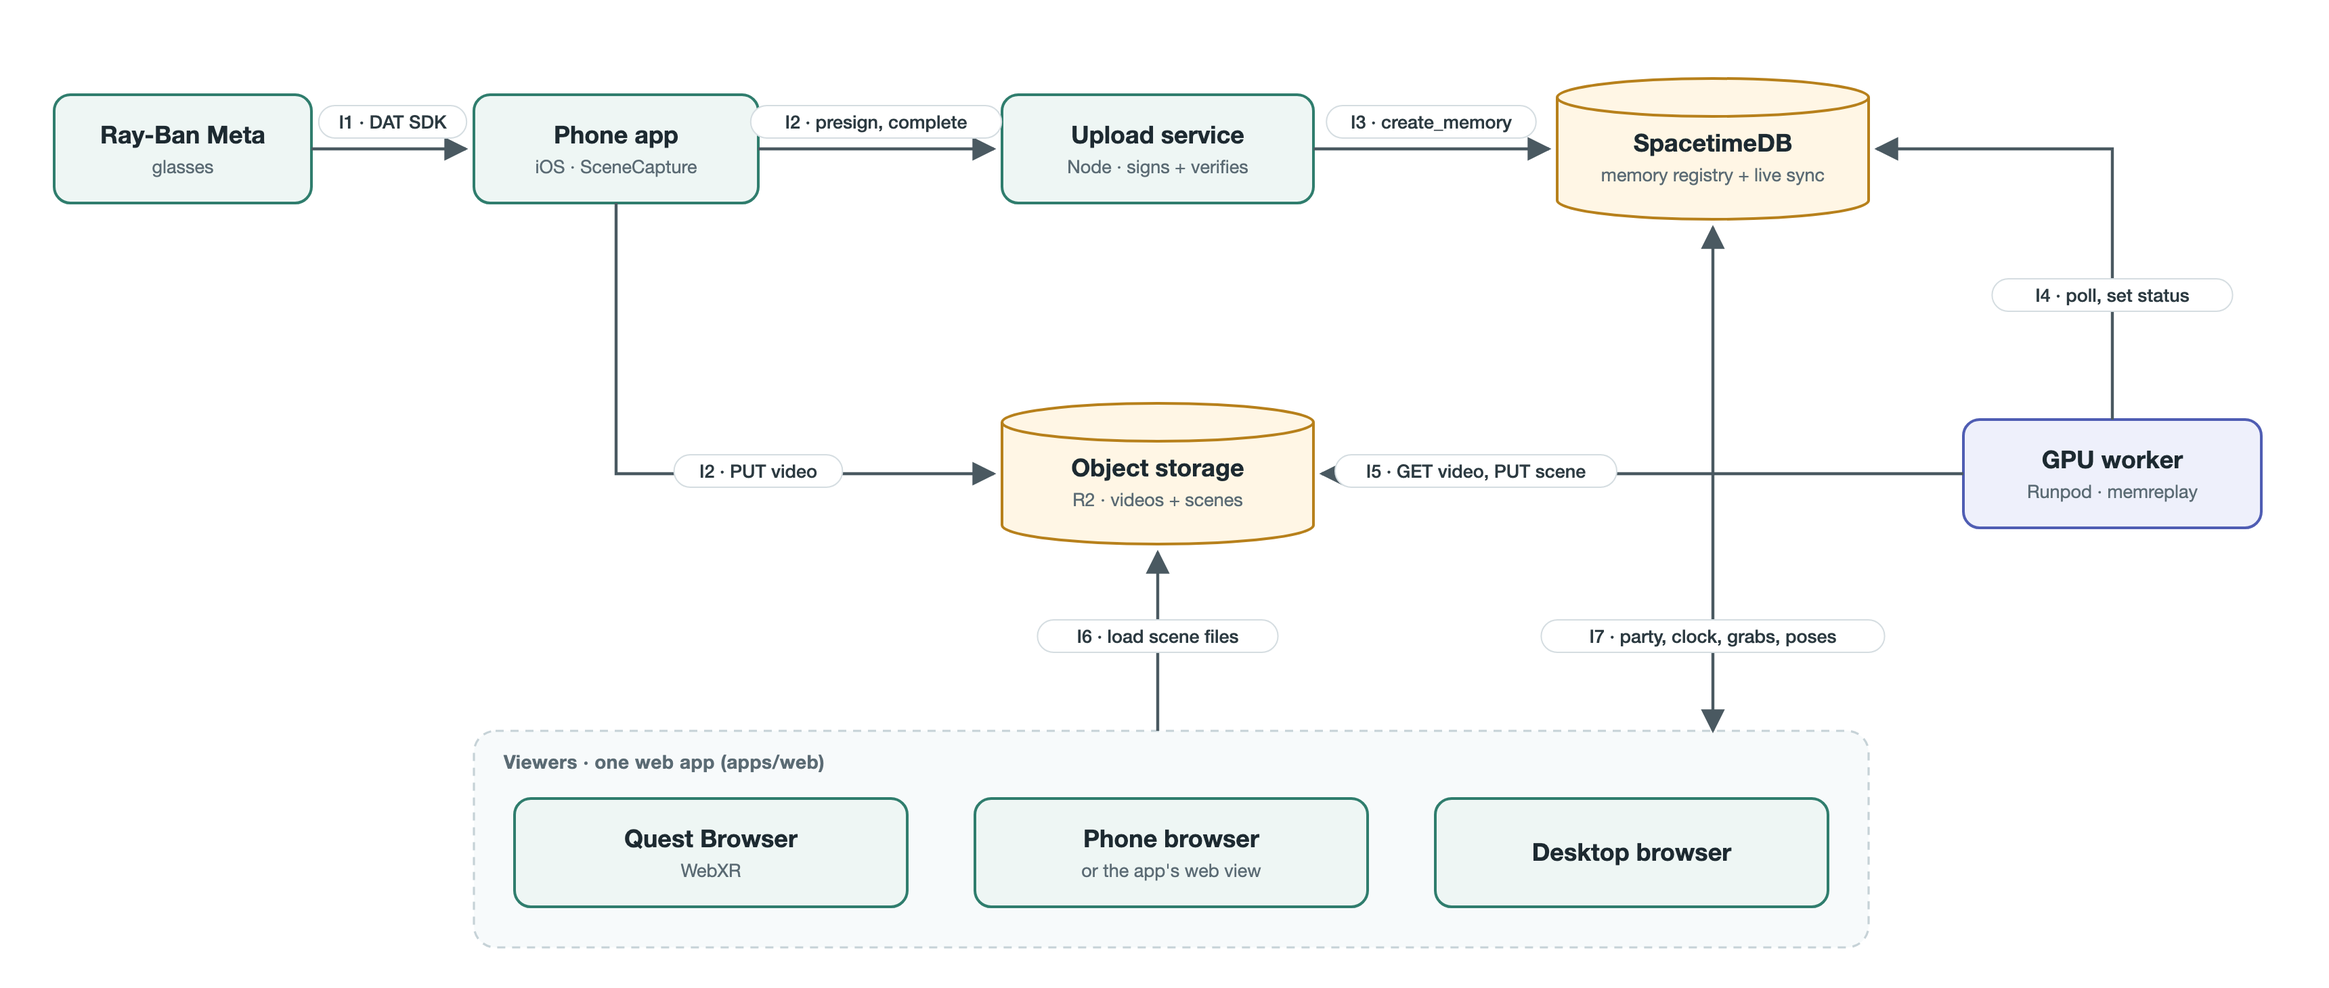
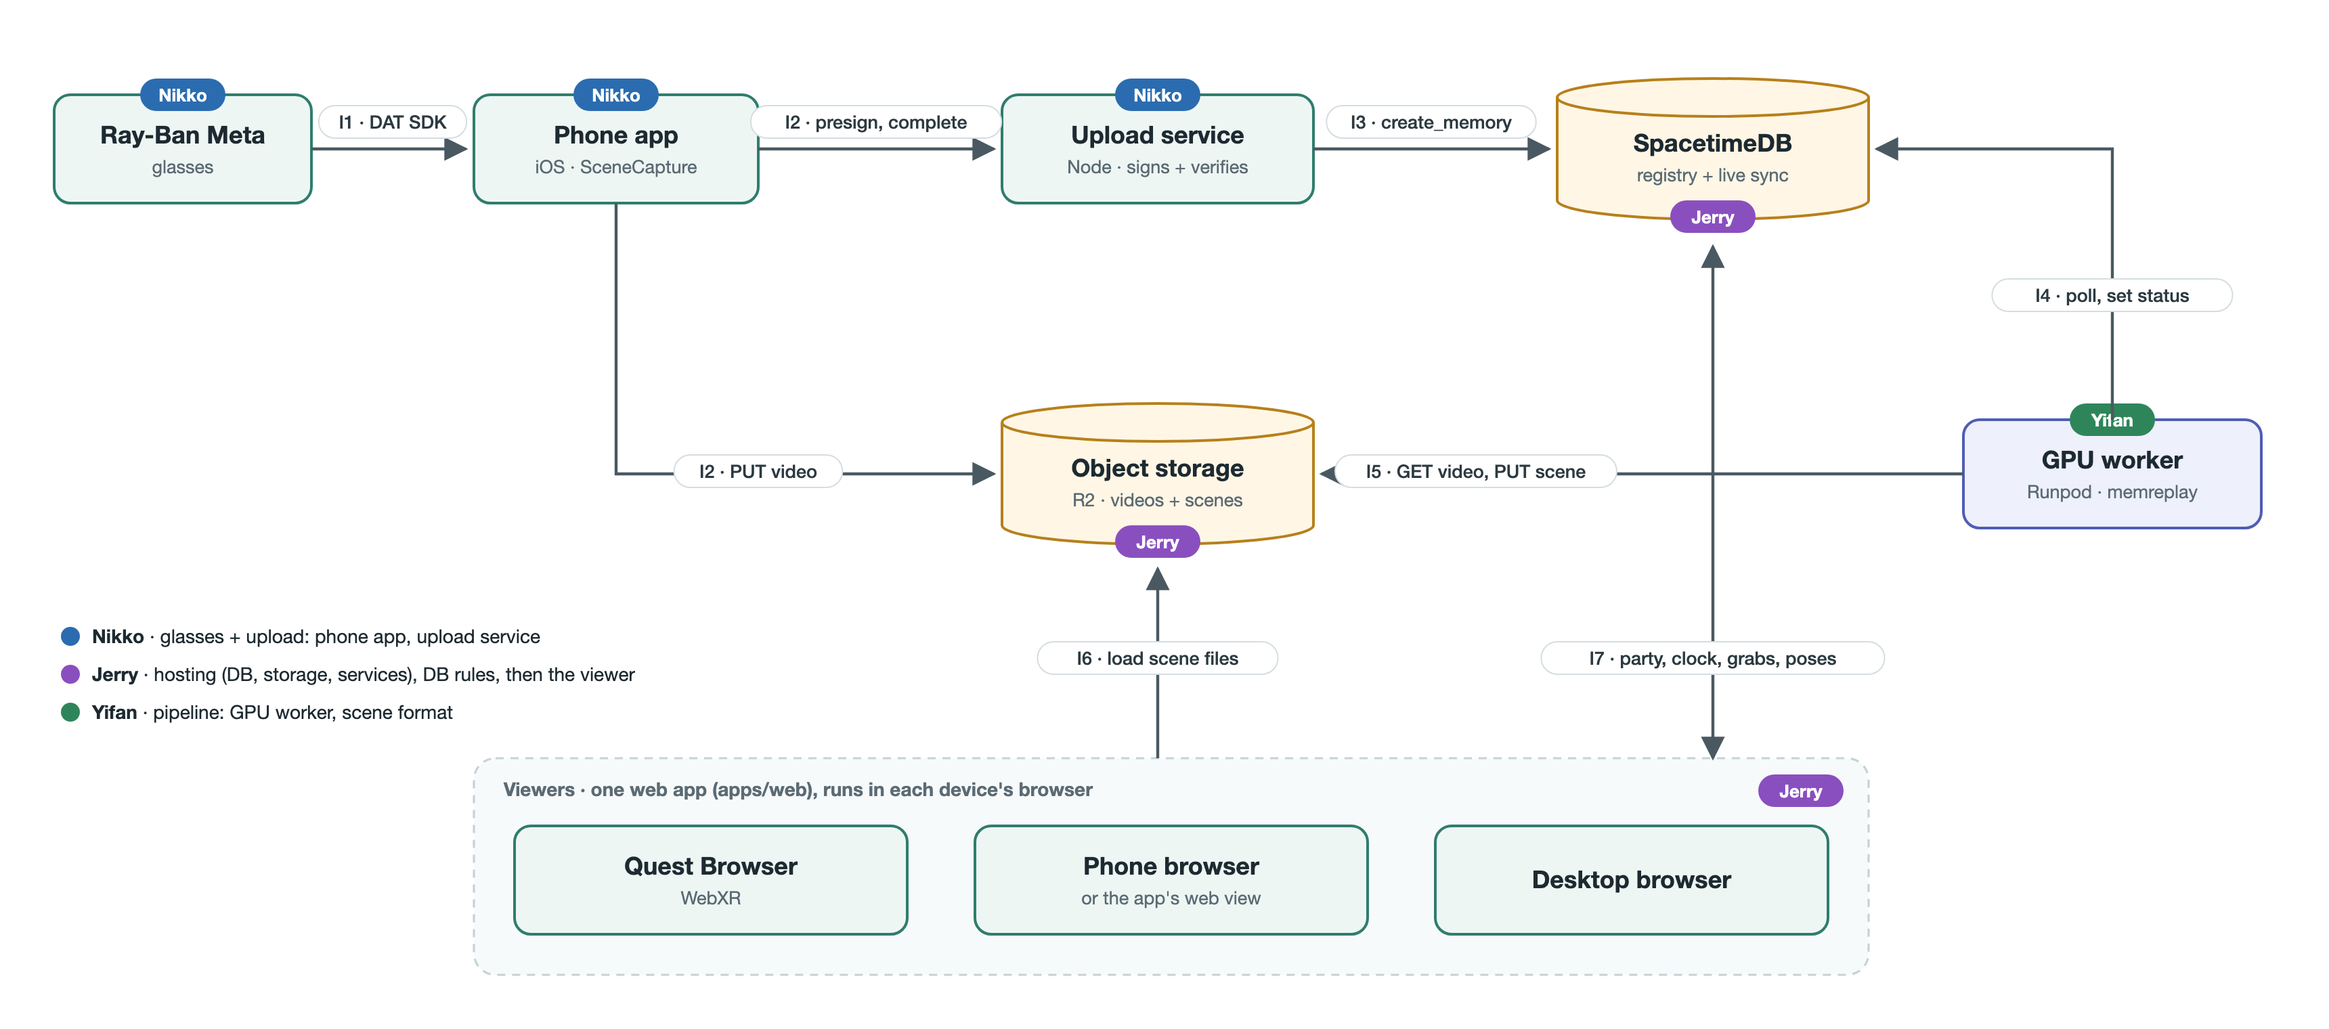
Docs: final three-person split (Nikko glasses + upload, Jerry hosting + DB + viewer, Yifan pipeline)
- TEAM.md: roles, interface owners (I1-I7), what's left and who does it;
  Andrew removed; Nikko ports the CameraAccess upload queue.
- Architecture diagram labelled with owners (make_arch.py regenerates it).
- README 'Who does what', CLAUDE.md reading list, INTEGRATION.md open-work
  owners and ARCHITECTURE.md next steps all point at the same split.

diff --git a/docs/architecture/make_arch.py b/docs/architecture/make_arch.py
@@ -1,0 +1,95 @@
+"""Draws docs/architecture/arch.svg (owners labelled). Render: Chrome headless screenshot of the SVG at 2x."""
+from pathlib import Path
+
+W, H = 1720, 760
+TEAL, TEAL_BG = "#2f7d6d", "#eef6f4"
+AMBER, AMBER_BG = "#b7801b", "#fff6e5"
+IND, IND_BG = "#4f5db3", "#eef0fb"
+INK, MUTED, LINE = "#1d2a31", "#5b6b74", "#4a5961"
+OWNER = {"Jerry": "#8a4fbf", "Nikko": "#2b6cb0", "Yifan": "#2f855a"}
+out = []
+
+def tag(x, y, names):
+    """owner pills centred on (x, y)"""
+    widths = [len(n) * 8.2 + 22 for n in names]
+    cx = x - (sum(widths) + 6 * (len(names) - 1)) / 2
+    for n, w in zip(names, widths):
+        out.append(f'<rect x="{cx}" y="{y - 12}" width="{w}" height="24" rx="12" fill="{OWNER[n]}"/>')
+        out.append(f'<text x="{cx + w / 2}" y="{y + 5}" class="o">{n}</text>')
+        cx += w + 6
+
+def box(x, y, w, h, title, sub, owners, stroke=TEAL, fill=TEAL_BG):
+    out.append(f'<rect x="{x}" y="{y}" width="{w}" height="{h}" rx="12" fill="{fill}" stroke="{stroke}" stroke-width="2"/>')
+    cy = y + h / 2
+    out.append(f'<text x="{x + w / 2}" y="{cy - 4 if sub else cy + 6}" class="t">{title}</text>')
+    if sub:
+        out.append(f'<text x="{x + w / 2}" y="{cy + 18}" class="s">{sub}</text>')
+    if owners:
+        tag(x + w / 2, y, owners)
+
+def cyl(x, y, w, h, title, sub, owners):
+    e = 14
+    out.append(f'<path d="M{x},{y + e} A{w / 2},{e} 0 0 1 {x + w},{y + e} V{y + h - e} A{w / 2},{e} 0 0 1 {x},{y + h - e} Z" fill="{AMBER_BG}" stroke="{AMBER}" stroke-width="2"/>')
+    out.append(f'<path d="M{x},{y + e} A{w / 2},{e} 0 0 0 {x + w},{y + e}" fill="none" stroke="{AMBER}" stroke-width="2"/>')
+    cy = y + h / 2 + 6
+    out.append(f'<text x="{x + w / 2}" y="{cy - 4}" class="t">{title}</text>')
+    out.append(f'<text x="{x + w / 2}" y="{cy + 18}" class="s">{sub}</text>')
+    tag(x + w / 2, y + h - 2, owners)
+
+def arrow(d, both=False):
+    start = ' marker-start="url(#a2)"' if both else ""
+    out.append(f'<path d="{d}" fill="none" stroke="{LINE}" stroke-width="2.2" marker-end="url(#a)"{start}/>')
+
+def label(x, y, text):
+    w = len(text) * 7.6 + 18
+    out.append(f'<rect x="{x - w / 2}" y="{y - 14}" width="{w}" height="24" rx="12" fill="#ffffff" stroke="#d5dde1"/>')
+    out.append(f'<text x="{x}" y="{y + 3}" class="l">{text}</text>')
+
+box(40, 70, 190, 80, "Ray-Ban Meta", "glasses", ["Nikko"])
+box(350, 70, 210, 80, "Phone app", "iOS · SceneCapture", ["Nikko"])
+box(740, 70, 230, 80, "Upload service", "Node · signs + verifies", ["Nikko"])
+cyl(1150, 58, 230, 104, "SpacetimeDB", "registry + live sync", ["Jerry"])
+cyl(740, 298, 230, 104, "Object storage", "R2 · videos + scenes", ["Jerry"])
+box(1450, 310, 220, 80, "GPU worker", "Runpod · memreplay", ["Yifan"], IND, IND_BG)
+out.append('<rect x="350" y="560" width="1030" height="160" rx="16" fill="#f7fafb" stroke="#c6d2d7" stroke-width="1.6" stroke-dasharray="6 5"/>')
+out.append('<text x="372" y="588" class="g">Viewers · one web app (apps/web), runs in each device\'s browser</text>')
+tag(1330, 584, ["Jerry"])
+box(380, 610, 290, 80, "Quest Browser", "WebXR", [])
+box(720, 610, 290, 80, "Phone browser", "or the app's web view", [])
+box(1060, 610, 290, 80, "Desktop browser", "", [])
+
+arrow("M230,110 H344"); label(290, 92, "I1 · DAT SDK")
+arrow("M560,110 H734"); label(647, 92, "I2 · presign, complete")
+arrow("M970,110 H1144"); label(1057, 92, "I3 · create_memory")
+arrow("M455,150 V350 H734"); label(560, 350, "I2 · PUT video")
+arrow("M1560,310 V110 H1386"); label(1560, 220, "I4 · poll, set status")
+arrow("M1450,350 H976"); label(1090, 350, "I5 · GET video, PUT scene")
+arrow("M855,560 V420"); label(855, 488, "I6 · load scene files")
+arrow("M1265,560 V182", both=True); label(1265, 488, "I7 · party, clock, grabs, poses")
+
+legend = [("Nikko", "glasses + upload: phone app, upload service"), ("Jerry", "hosting (DB, storage, services), DB rules, then the viewer"),
+          ("Yifan", "pipeline: GPU worker, scene format")]
+for i, (n, what) in enumerate(legend):
+    y = 470 + i * 28
+    out.append(f'<circle cx="52" cy="{y}" r="7" fill="{OWNER[n]}"/>')
+    out.append(f'<text x="68" y="{y + 5}" class="lg"><tspan font-weight="700">{n}</tspan> · {what}</text>')
+
+svg = f'''<svg xmlns="http://www.w3.org/2000/svg" width="{W}" height="{H}" viewBox="0 0 {W} {H}">
+<defs>
+<marker id="a" viewBox="0 0 10 10" refX="9" refY="5" markerWidth="8" markerHeight="8" orient="auto"><path d="M0,0 L10,5 L0,10 z" fill="{LINE}"/></marker>
+<marker id="a2" viewBox="0 0 10 10" refX="1" refY="5" markerWidth="8" markerHeight="8" orient="auto"><path d="M10,0 L0,5 L10,10 z" fill="{LINE}"/></marker>
+<style>
+text {{ font-family: Inter, -apple-system, "Helvetica Neue", Arial, sans-serif; text-anchor: middle; fill: {INK}; }}
+.t {{ font-size: 18px; font-weight: 600; }}
+.s {{ font-size: 13.5px; fill: {MUTED}; }}
+.l {{ font-size: 13.5px; font-weight: 500; fill: #2c3a41; }}
+.o {{ font-size: 13px; font-weight: 700; fill: #ffffff; }}
+.g {{ font-size: 14px; font-weight: 600; fill: {MUTED}; text-anchor: start; }}
+.lg {{ font-size: 14px; fill: {INK}; text-anchor: start; }}
+</style></defs>
+<rect width="100%" height="100%" fill="#ffffff"/>
+{chr(10).join(out)}
+</svg>'''
+here = Path(__file__).parent
+(here / "arch.svg").write_text(svg)
+(here / "arch.html").write_text(f'<!doctype html><html><head><meta charset="utf-8"><style>html,body{{margin:0;background:#fff}}</style></head><body>{svg}</body></html>')

diff --git a/docs/TEAM.md b/docs/TEAM.md
@@ -8,10 +8,9 @@ and **how to change things without stepping on each other**.
 
 | Person | Owns (code) | Responsible for | Interfaces they own |
 |---|---|---|---|
-| **Jerry** | `server/spacetime/` (module), `server/upload/`, `apps/ios/SceneCapture*`, `apps/web/src/auth.ts`, `account-key.ts`, party UI in `session.ts` | Database rules and reducers, parties and leadership, name/key sign-in, the upload service, **the phone app** (glasses capture → upload), the hosted demo and cloud setup (Maincloud, HTTPS hosts, R2) | I1, I2, I3, I7 (server side) |
-| **Nikko** | `apps/web/src/viewer.ts`, `physics.ts`, `timeline.ts`, `tracks.ts`, `loader.ts`; `apps/web/library.html` + `library*.ts` | **The viewer engine** (load scene, physics, grab/throw, takes, replay), the memory library page, porting the durable upload queue from `apps/ios/CameraAccess` into SceneCapture | I6 (reader), I7 (client: grabs, takes) |
-| **Yifan** | `pipeline/`, `packages/shared/` (scene format), `apps/web/src/net/adapter.ts`, glass UI and VR panel (`main.ts`, `index.html`, `style.css`, `ui.ts`, `vr-panel.ts`, `input-xr.ts`, `guided.ts`, `exposure.ts`) | **Video → scene** on Runpod, the GPU worker, the scene format, the viewer's UI on phone/desktop/Quest, keeping `main` green (merges, integration tests) | I4, I5, I6 (writer), I7 (client UI) |
-| **Andrew** | `origin/frontend-quest`, `origin/frontend-phone`, `origin/pipe/motion-extraction-2` (not merged, see below) | **Quest testing and the demo clip**: test multi-headset parties, record the demo footage (guide in `pipeline/README.md` §3), port the prop-motion fix into the pipeline with Yifan | — (tester; files changes through the owners above) |
+| **Nikko** | `apps/ios/`, `server/upload/` | **Glasses and upload.** The phone app: Meta glasses capture through the DAT SDK, the durable upload queue (ported from `apps/ios/CameraAccess`), and the upload service it talks to. | I1, I2 (both sides), I3 (caller) |
+| **Jerry** | `server/spacetime/`, cloud accounts, then `apps/web/` | **Hosting first:** the Maincloud database, the R2 bucket, the upload service and the viewer on HTTPS, plus the database rules (reducers, parties, leadership, name/key sign-in). **Then the viewer:** party and VR fixes, multi-headset testing, the phone/desktop UI. | I3 (reducer), I5 (bucket), I6 (reader), I7 (both sides) |
+| **Yifan** | `pipeline/`, `packages/shared/` (scene format), the Runpod pods | **Pipeline.** Video → scene, the GPU worker, the scene format, the demo scenes. No UI work. | I4, I5 (worker), I6 (writer) |
 
 If a task touches another person's files, ask them first or open the PR with them as reviewer.
 
@@ -19,13 +18,13 @@ If a task touches another person's files, ask them first or open the PR with the
 
 | # | Between | Contract | Owner(s) |
 |---|---|---|---|
-| I1 | Glasses → phone app | Meta DAT SDK 1.0.1; MP4/MOV ≥ 1280 px, 30 fps, audio | Jerry |
-| I2 | Phone → upload service → R2 | `POST /api/uploads/presign` `{identity, name, type, size, title, durationSec}` → `{putUrl, receipt, requestId}`; `PUT putUrl` (15 min); `POST /api/uploads/complete` `{identity, receipt}` (60 min); `Authorization: Bearer <SpacetimeDB token>` | Jerry (both sides) |
-| I3 | Upload service → DB | `create_memory {requestId, title, sourceUrl, pipelineIdentity, durationUs}` → memory row `uploaded` | Jerry |
+| I1 | Glasses → phone app | Meta DAT SDK 1.0.1; MP4/MOV ≥ 1280 px, 30 fps, audio | Nikko |
+| I2 | Phone → upload service → R2 | `POST /api/uploads/presign` `{identity, name, type, size, title, durationSec}` → `{putUrl, receipt, requestId}`; `PUT putUrl` (15 min); `POST /api/uploads/complete` `{identity, receipt}` (60 min); `Authorization: Bearer <SpacetimeDB token>` | Nikko (both sides) |
+| I3 | Upload service → DB | `create_memory {requestId, title, sourceUrl, pipelineIdentity, durationUs}` → memory row `uploaded` | Nikko (caller) · Jerry (reducer) |
 | I4 | GPU worker ↔ DB | poll `SELECT * FROM memory WHERE status = 'uploaded'`; `set_memory_status [id, status, progress, manifestUrl, error]`; uploaded → processing → ready / failed | Yifan (worker) · Jerry (reducer) |
-| I5 | GPU worker ↔ R2 | read `videos/<owner>/<requestId>.<ext>`; write `memories/<memoryId>/` once (`memory.json`, splats, collider, audio) | Yifan |
-| I6 | Viewer ← R2 | `memory.json` schema: `packages/shared/src/manifest.ts` = `pipeline/memreplay/manifest.py` | Yifan (writer) · Nikko (reader) |
-| I7 | Viewer ↔ DB | WebSocket subscription; reducers: sign-in `register_account`, `set_display_name`; party `create_party`, `join_room`, `leave_room`, `transfer_leadership`, `attach_party_memory`; time (leader only) `set_paused`, `seek`, `set_playback_speed`, `set_branch`, `fork_branch`; interaction `grab`, `move_object`, `release`, `save_branch_keyframes`; presence `set_pose`; clock `sample_clock` | Jerry (server) · Nikko (engine calls) · Yifan (UI/adapter) |
+| I5 | GPU worker ↔ R2 | read `videos/<owner>/<requestId>.<ext>`; write `memories/<memoryId>/` once (`memory.json`, splats, collider, audio) | Yifan (worker) · Jerry (bucket) |
+| I6 | Viewer ← R2 | `memory.json` schema: `packages/shared/src/manifest.ts` = `pipeline/memreplay/manifest.py` | Yifan (writer) · Jerry (reader) |
+| I7 | Viewer ↔ DB | WebSocket subscription; reducers: sign-in `register_account`, `set_display_name`; party `create_party`, `join_room`, `leave_room`, `transfer_leadership`, `attach_party_memory`; time (leader only) `set_paused`, `seek`, `set_playback_speed`, `set_branch`, `fork_branch`; interaction `grab`, `move_object`, `release`, `save_branch_keyframes`; presence `set_pose`; clock `sample_clock` | Jerry (server and client) |
 
 **Sign-in (changed tonight):** Google sign-in is gone. People sign in with a **name**; `register_account` binds it to
 a **personal key** (`memos1.…`, stored by the browser/phone) so the same identity works on another device. Guests can
@@ -49,15 +48,14 @@ still set a display name with `set_display_name`; a name registered to a key can
 
 | Branch | Why | What to do |
 |---|---|---|
-| `origin/frontend-quest`, `origin/frontend-phone` (Andrew) | Built on a 9-hour-old `main`; they rewrite `input-xr.ts`, `style.css` and add a second VR panel (`xr-panel.ts`), all superseded by the merged glass UI and VR panel (PR #4, tested on a Quest 3S, which already credits these fixes) | Don't merge. Open small PRs against `main` for anything still missing. |
-| `origin/pipe/motion-extraction-2` (Andrew) | A pipeline fix (prop motion separation, colour tags) on an old `main`; overlaps files with pipeline runs in progress tonight | Andrew + Yifan port it onto current `main` after tonight's runs, with tests. |
-| `apps/ios/CameraAccess` (Nikko, merged) | A second phone app that duplicates SceneCapture | Keep as reference only; port its upload-queue durability into SceneCapture, then delete it. |
+| `origin/frontend-quest`, `origin/frontend-phone` | Built on an old `main`; they rewrite `input-xr.ts` and `style.css` and add a second VR panel, all superseded by the merged glass UI and VR panel (PR #4, which already credits their fixes) | Don't merge. Jerry may cherry-pick anything still useful into `apps/web`. |
+| `origin/pipe/motion-extraction-2` | A pipeline fix (prop motion separation, colour tags) on an old `main` | Yifan ports it onto current `main` after tonight's runs, with tests. |
+| `apps/ios/CameraAccess` (merged) | A second phone app that duplicates SceneCapture | Reference only: Nikko ports its upload-queue durability into SceneCapture, then deletes it. |
 
 ## What's left before the demo (owner)
 
-1. Cloud: Maincloud database, R2 bucket (public read, CORS), upload service and viewer on HTTPS (**Jerry**).
+1. Hosting: Maincloud database, R2 bucket (public read, CORS), upload service and viewer on HTTPS (**Jerry**).
 2. GPU worker running on Runpod, one real upload end to end (**Yifan**).
-3. SceneCapture on a real iPhone with the glasses, durable upload queue (**Jerry, Nikko**).
-4. Viewer party fixes: VR controls respect the leader, no junk take from a guest's catch, stale takes hidden after a
-   scene switch (**Nikko, Yifan**).
-5. Demo clip recorded and run through the pipeline; multi-headset party test (**Andrew**).
+3. Phone app on a real iPhone with the glasses (DAT SDK), durable upload queue (**Nikko**).
+4. Viewer party fixes: VR controls respect the leader, no junk take from a guest's catch, stale takes hidden after a scene switch; multi-headset test (**Jerry**, after hosting).
+5. Demo clip recorded by everyone, run through the pipeline (**Yifan**).

diff --git a/docs/INTEGRATION.md b/docs/INTEGRATION.md
@@ -179,10 +179,10 @@ A 16-agent survey checked every branch before the merge, and two independent che
 
 ## 5. Not built yet
 
-| Gap | What it needs | Owner (suggested) |
+| Gap | What it needs | Owner ([TEAM.md](TEAM.md)) |
 |---|---|---|
-| **Pipeline worker** (upload → pipeline → ready) | **Written** as `memreplay worker` (`pipeline/memreplay/worker.py`): polls the `memory` table over HTTP SQL, skips test uploads, checks `sourceUrl` with `allowed_source()` and caps the download, runs S1-S7, publishes to the bucket (or a folder), then `ready`/`failed` via `set_memory_status`. Not yet run against a live SpacetimeDB and bucket. Original requirements: Subscribe to `memory`, take rows with `status = 'uploaded'` and its own `pipelineIdentity`; report `processing` with `scripts/pipeline-status.py`; download `sourceUrl` only if `scripts/source_check.py`'s `allowed_source(url, ASSET_BASE_URL or PUBLIC_ORIGIN/api/local-media, owner)` accepts it, with a size and time cap; skip rows whose `pipelineIdentity` is their own `owner` (test uploads); run the pipeline, reporting progress; upload the viewer files; finish with `ready --progress 1 --manifest-url https://…/memory.json`, or `failed`. The pod must reach SpacetimeDB at a public URL. | Vision |
-| **Pipeline steps** | Built: [pipeline/README.md](../pipeline/README.md), results in [VISION_PIPELINE_REPORT.md](VISION_PIPELINE_REPORT.md) | Vision |
+| **Pipeline worker** (upload → pipeline → ready) | **Written** as `memreplay worker` (`pipeline/memreplay/worker.py`): polls the `memory` table over HTTP SQL, skips test uploads, checks `sourceUrl` with `allowed_source()` and caps the download, runs S1-S7, publishes to the bucket (or a folder), then `ready`/`failed` via `set_memory_status`. Not yet run against a live SpacetimeDB and bucket. Original requirements: Subscribe to `memory`, take rows with `status = 'uploaded'` and its own `pipelineIdentity`; report `processing` with `scripts/pipeline-status.py`; download `sourceUrl` only if `scripts/source_check.py`'s `allowed_source(url, ASSET_BASE_URL or PUBLIC_ORIGIN/api/local-media, owner)` accepts it, with a size and time cap; skip rows whose `pipelineIdentity` is their own `owner` (test uploads); run the pipeline, reporting progress; upload the viewer files; finish with `ready --progress 1 --manifest-url https://…/memory.json`, or `failed`. The pod must reach SpacetimeDB at a public URL. | Yifan |
+| **Pipeline steps** | Built: [pipeline/README.md](../pipeline/README.md), results in [VISION_PIPELINE_REPORT.md](VISION_PIPELINE_REPORT.md) | Yifan |
 | **Real hardware** | Nothing has run on a Quest 3S, a real phone over the tunnel, or real glasses footage | Everyone |
 
 Until the worker exists, an uploaded clip stays `uploaded`. To show a memory in a room, add its `memory.json` URL to the library by hand.

diff --git a/CLAUDE.md b/CLAUDE.md
@@ -4,9 +4,10 @@ Turn a Ray-Ban Meta glasses video into a 3D memory that people relive together i
 
 ## Read first
 1. **[docs/INTEGRATION.md](docs/INTEGRATION.md):** what was merged from which branch, which contract won, how the viewer talks to the server, and the known issues with owners.
-2. **[docs/PLAN.md](docs/PLAN.md):** product plan, system design, timeline, risks.
-3. **[README.md](README.md):** setup and daily commands.
-4. Per-area docs: [docs/P3_VIEWER.md](docs/P3_VIEWER.md) (viewer), [docs/P4.md](docs/P4.md) (multiplayer, upload, worker contract), [docs/CAPTURE_TEST.md](docs/CAPTURE_TEST.md) (upload and stored-video test), [docs/SPLAT_TEST.md](docs/SPLAT_TEST.md), [pipeline/README.md](pipeline/README.md) (vision pipeline runbook; being rewritten).
+2. **[docs/ARCHITECTURE.md](docs/ARCHITECTURE.md)** (system design, interfaces I1–I7) and **[docs/TEAM.md](docs/TEAM.md)** (who owns which folder and interface: Nikko glasses + upload, Jerry hosting + database + viewer, Yifan pipeline).
+3. **[docs/PLAN.md](docs/PLAN.md):** product plan, system design, timeline, risks.
+4. **[README.md](README.md):** setup and daily commands.
+5. Per-area docs: [docs/P3_VIEWER.md](docs/P3_VIEWER.md) (viewer), [docs/P4.md](docs/P4.md) (multiplayer, upload, worker contract), [docs/CAPTURE_TEST.md](docs/CAPTURE_TEST.md) (upload and stored-video test), [docs/SPLAT_TEST.md](docs/SPLAT_TEST.md), [pipeline/README.md](pipeline/README.md) (vision pipeline runbook; being rewritten).
 
 ## Layout
 ```

diff --git a/docs/ARCHITECTURE.md b/docs/ARCHITECTURE.md
@@ -36,8 +36,8 @@ Who owns which part and interface: [TEAM.md](TEAM.md).
 **Status:** upload, the pipeline, scene switching and live sync work. Glasses capture, the automatic worker and the cloud setup are not done yet.
 
 **Next, in order**
-1. Cloud setup: Maincloud database, R2 bucket, upload service and viewer on HTTPS.
-2. Run the worker on Runpod and test one real upload end to end.
-3. Build the phone app on a real iPhone against the DAT SDK.
-4. Make the viewer's VR controls respect the party leader.
-5. Record the demo clip.
+1. Hosting: Maincloud database, R2 bucket, upload service and viewer on HTTPS (Jerry).
+2. Run the worker on Runpod and test one real upload end to end (Yifan).
+3. Build the phone app on a real iPhone with the glasses, durable upload queue (Nikko).
+4. Viewer party fixes: VR controls respect the leader, no stray takes (Jerry, after hosting).
+5. Record the demo clip (everyone), run it through the pipeline (Yifan).
